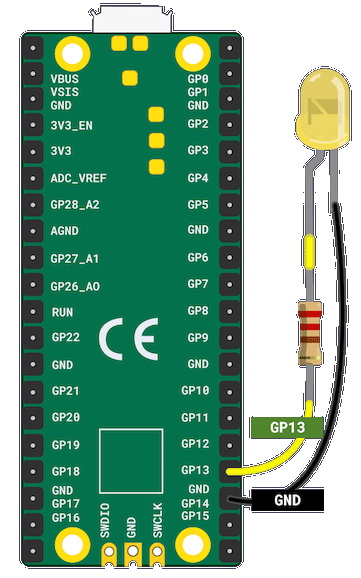
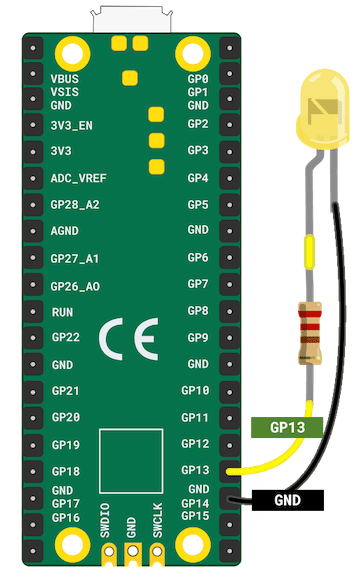
more optimised images

diff --git a/en/step_9.md b/en/step_9.md
@@ -4,7 +4,7 @@ If you are following the [Introduction to the Raspberry Pi Pico](https://project
 
 --- print-only ---
 
-![A small piece of foil is pulled out of the popper switch and an LED lights up and a sound plays.](images/full-popper-test.png)
+![A small piece of foil is pulled out of the popper switch and an LED lights up and a sound plays.](images/full-popper-test.jpg)
 
 --- /print-only ---
 
